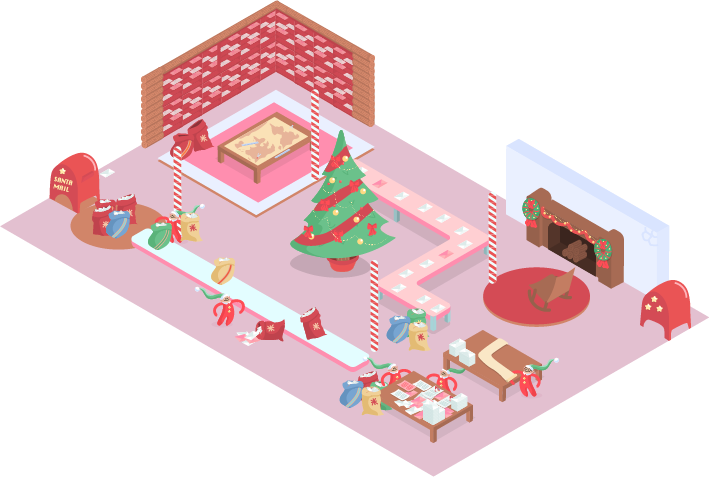
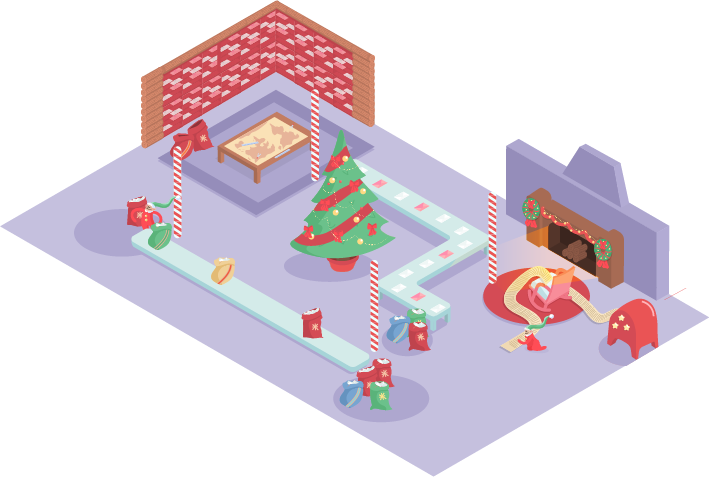
New Letter Room and Adding Sprites

diff --git a/js/mainphaser.js b/js/mainphaser.js
@@ -27,8 +27,10 @@ var badgeScore = localStorage.getItem('badgeScore');
   }
 // Log saved score from local Storage
 console.log('Last Save // Stars('+ localStorage.getItem("starScore") + '), Badges(' + localStorage.getItem("badgeScore") + ')')
-localStorage.clear()
-starScore = 0;
+
+//Clearing score
+//localStorage.clear()
+//starScore = 0;
 
 // BASEMAP Speed and Friction
 var speedMult = 0.7;
@@ -44,28 +46,34 @@ function preload() {
   //game.load.spritesheet('ms', 'assets/sprites/metalslug_mummy37x45.png', 37, 45, 18);
 
   
-  //BACKGROUND IMAGES
+  //***** BACKGROUND IMAGES
   game.load.image('map', 'assets/images/basemap/basemap_empty.png');
   game.load.image('infoBtn', 'assets/images/infoButton.png');
   //game.load.image('map', 'assets/images/baseMap_start.png');
   game.load.image('star', 'assets/images/star.png');
   game.load.image('emptybadge', 'assets/images/emptybadge.png');
   
-  //LOCKS
+  //***** LOCKS
   game.load.image('lockShadow', 'assets/images/locks/lockShadow.png');
   game.load.image('lockedLetter', 'assets/images/locks/locked_100x100.png');
   //game.load.spritesheet('badgeWin', 'assets/sprites/elf_badgeWin200100.png', 200, 100);
   
-  // ROOMS
+  //***** ROOMS
   game.load.image('RoomReception', 'assets/images/rooms/reception/reception.png');
-  game.load.image('RoomLetter', 'assets/images/rooms/letter/letterRoom.png');
+  //LetterRoom
+  game.load.image('RoomLetter', 'assets/images/rooms/letter/letterroom_withanimation.png');
+  game.load.spritesheet('letterAnimMailbox', 'assets/images/rooms/letter/letterroom_mailbox_120120.png', 120, 120);
+  game.load.image('letterPouchGroup', 'assets/images/rooms/letter/pouchgroup.png');
+  game.load.image('letterpouch1', 'assets/images/rooms/letter/pouch1.png');
+  game.load.image('letterpouch2', 'assets/images/rooms/letter/pouch2.png');
+  game.load.image('letterpouch3', 'assets/images/rooms/letter/pouch3.png');
   
-  //ELF SPRITESHEETS
+  //***** ELF SPRITESHEETS
   game.load.spritesheet('ms', 'assets/sprites/elfmotion2048.png', 170.7, 170.7, 100);
   //**Library
   game.load.spritesheet('desk', 'assets/sprites/rooms/library/LIBRARY_desk_200200.png', 200, 200);
   
-  //AUDIO
+  //***** AUDIO
   // game.load.audio('sfx', [ 'assets/audio/SoundEffects/fx_mixdown.mp3', 'assets/audio/SoundEffects/fx_mixdown.ogg' ]);
   game.load.audio('blop', ['assets/audio/blop.mp3', 'assets/audio/blop.wav']);
   game.load.audio('lockwin', 'assets/audio/gamewin.mp3');
@@ -114,17 +122,21 @@ function create() {
     }, this);
   
   
-  //*** Setting Rooms
+  //***** Setting Rooms
+  //*** LETTER ROOM
   //Add Letter room
   RoomLetter = game.add.sprite(350, 73, 'RoomLetter')
-    RoomLetter.alpha = 0;
+    RoomLetter.alpha = 1;
     scrollingMap.addChild(RoomLetter);
   // Clone bounds from letter room sprite
   roomBounds1 = Phaser.Rectangle.clone(RoomLetter);
+  // LETTER ROOM ANIMATIONS
+  //Mailbox Animations
+  letterAnimMailbox = game.add.sprite(378, 210, 'letterAnimMailbox');
+  letterAnimMailbox.animations.add('letterAnimMailbox_anim');
+  letterAnimMailbox.animations.play('letterAnimMailbox_anim', 25, true);
+  scrollingMap.addChild(letterAnimMailbox);
   
-  //var roomBounds1line = game.add.graphics(roomBounds1.x, roomBounds1.y);
-    //roomBounds1line.lineStyle(4, 0xffd900, 1);
-    //roomBounds1line.drawRect(0, 0, roomBounds1.width, roomBounds1.height);
   
   
   RoomReception = game.add.image(210, 232, 'RoomReception')
@@ -199,11 +211,11 @@ function create() {
   
   
   // Elf Spritesheets
-  library_desk_s = game.add.sprite(370, 130, 'desk');
-  library_desk_s.scale.setTo(0.55,0.55);
-  library_desk_s.animations.add('library_desk_anim');
-  library_desk_s.animations.play('library_desk_anim', 25, true);
-  scrollingMap.addChild(library_desk_s);
+  //library_desk_s = game.add.sprite(370, 130, 'desk');
+  //library_desk_s.scale.setTo(0.55,0.55);
+  //library_desk_s.animations.add('library_desk_anim');
+  //library_desk_s.animations.play('library_desk_anim', 25, true);
+  //scrollingMap.addChild(library_desk_s);
   
   //** Adding Info Button
   infoBtn = game.add.sprite(477,443, 'infoBtn');
@@ -308,19 +320,7 @@ function collectStar (star) {
   // Add new score to console
   console.log('+10 ! new Stars (' + starScore + ')')
   
-    
-  // Check for Badges
-  if(starScore % 3 == 0) {
-    badgeScore += 1;   
-    
-    // Play badge win audio
-    //badgewin.play('',0,1);
-    //this.jinglebells.play('',0,1);
-    iconBadgeWin(this);
-    console.log('Holy! You got a new badge! You now have ' + badgeScore + ' badges.')
-  } else {
-    iconCollectStar(this);
-  }
+  iconCollectStar(this);
   
   // Update new score to localStorage
   localStorage.setItem("starScore", JSON.stringify(starScore));
@@ -528,13 +528,4 @@ function displayModal() {
           delay:.1
         })
         .fromTo(modalContent, .4, {y:300}, {y:0}, '-=.3')
-
-    for (var i = 0; i < modalBtn.length; i++) {
-        var thismodalBtn = modalBtn[i];
-        thismodalBtn.addEventListener("click", function () {
-            var modal = document.getElementById(this.dataset.modal);
-            //modal.style.display = "block";
-            modal.addEventListener("click", function () { modal.style.display = "none"; modal.removeEventListener("click"); });
-        }, false);
-    }
 }

diff --git a/js/main.js b/js/main.js
@@ -1,3 +1,5 @@
+
+
 ///******** Menu Button States ********///
 
 
@@ -9,6 +11,9 @@ function toggleSound() {
   else 
     audio.pause();
 }
+
+var blopAudio = new Audio('assets/audio/blop.mp3');
+    
 
 
 ///******** Cards Modals ********///
@@ -28,11 +33,10 @@ modaltl
   })
 
 // Get the button that opens the modal
-var modalBtn = document.getElementsByClassName("modalBtn")[0];
 // Get the <span> element that closes the modal
 var modalSpan = document.getElementById("modalSpan");
 // When the user clicks on the button, open the modal 
-modalBtn.onclick = function displayModal() {
+function displayModal() {
     modal.style.display = "block";
       modaltl
         .fromTo(modal, .5, {
@@ -45,18 +49,10 @@ modalBtn.onclick = function displayModal() {
           ease: Back.easeOut.config(.8)
         })
         .fromTo(modalContent, .4, {y:300}, {y:0}, '-=.3')
-
-    for (var i = 0; i < modalBtn.length; i++) {
-        var thismodalBtn = modalBtn[i];
-        thismodalBtn.addEventListener("click", function () {
-            var modal = document.getElementById(this.dataset.modal);
-            //modal.style.display = "block";
-            modal.addEventListener("click", function () { modal.style.display = "none"; modal.removeEventListener("click"); });
-        }, false);
-    }
 }
 // When the user clicks on <span> (x), close the modal
 modalSpan.onclick = function modalTrigger() {
+  blopAudio.play();
     modaltl
       .fromTo(modalContent, .3, {y:0}, {y:300})
       .fromTo(modal, .5, {
@@ -71,7 +67,7 @@ modalSpan.onclick = function modalTrigger() {
   //modal.style.display = "none";
   
   // Check for Badges
-  if(starScore % 1 == 0) {
+  if(starScore % 3 == 0) {
     badgeScore += 1;   
     
     // Play badge win audio
@@ -142,6 +138,7 @@ libraryBtn.onclick = function() {
 
 // When the user clicks on <span> (x), close the library
 librarySpan.onclick = function() {
+  blopAudio.play();
     librarytl
       .fromTo(libraryContent, .3, {y:0}, {y:300})
       .fromTo(library, .5, {
@@ -169,7 +166,6 @@ window.onclick = function(event) {
 var infoModal = document.getElementById('infoModal');
 var introModalBtn = document.getElementById('introModalBtn');
 //Open Intro Modal
-
 function infoModalOpen() {
   document.getElementById("infoModal").style.display = "block";
   tlinfoModalOpen = new TimelineMax();
@@ -185,9 +181,9 @@ function infoModalOpen() {
     delay:.5
   })
 }
-
 //Close Intro Modal
 introModalBtn.onclick = function() {
+  blopAudio.play();
   var tlintroModalClose = new TimelineMax();
   tlintroModalClose
     .to(infoModal, .75, {
@@ -197,6 +193,8 @@ introModalBtn.onclick = function() {
     });
   //library.style.display = "none";  
 }
+
+
 
 //****** Badge Win Card ******//
 var newBadgeModal = document.getElementById('newBadgeModal');
@@ -216,10 +214,11 @@ function newBadgeModalReveal() {
     ease: Elastic.easeOut.config(1, 0.6),
     delay:.5
   })
+  tlnewBadgeModalOpen.to(newBadgeModal, .8, {y:-7, yoyo:true, repeat:-1, ease:"easeOut"});
 }
-
 //Close Intro Modal
 newBadgeModal.onclick = function() {
+  blopAudio.play();
   var tlnewBadgeModalClose = new TimelineMax();
   tlnewBadgeModalClose
     .to(newBadgeModal, .75, {

diff --git a/index.html b/index.html
@@ -62,28 +62,11 @@
     <div class="small-11 large-5 small-centered columns menuContent">
       
         <!-- First Button Alpha -->
-        <div class="small-3 columns menuDate ">
+        <div class="small-4 columns menuDate ">
             <h4>Dec. <span id="userDate"></span></h4>
         </div>
         <!-- Second Button Alpha -->
-        <div class="small-3 columns menuButton">
-          <button class="modalBtn">
-            <svg class="menuSVGButton" version="1.1"
-               x="0px" y="0px" width="47.7px" height="47.7px" viewBox="0 0 47.7 47.7" style="enable-background:new 0 0 47.7 47.7;"
-               xml:space="preserve">
-            <style type="text/css">
-              .whiteoff{opacity:0.2;fill:#FFFFFF;}
-              .whitepure{fill:#FFFFFF;}
-            </style>
-            <defs>
-            </defs>
-            <circle class="whiteoff" cx="23.9" cy="23.9" r="23.9"/>
-            <path class="whitepure" d="M25,11.5l3.2,6.4c0.2,0.4,0.5,0.6,0.9,0.7l7,1c1,0.1,1.4,1.4,0.7,2.1l-5.1,5c-0.3,0.3-0.4,0.7-0.4,1.1l1.2,7
-              c0.2,1-0.9,1.8-1.8,1.3l-6.3-3.3c-0.4-0.2-0.8-0.2-1.2,0L17,36.1c-0.9,0.5-2-0.3-1.8-1.3l1.2-7c0.1-0.4-0.1-0.8-0.4-1.1l-5.1-5
-              c-0.7-0.7-0.3-2,0.7-2.1l7-1c0.4-0.1,0.8-0.3,0.9-0.7l3.2-6.4C23.2,10.6,24.5,10.6,25,11.5z"/>
-            </svg>
-          </button>
-        </div>
+        
         
         <!-- Elf Icon -->
         <div>
@@ -542,7 +525,7 @@ the last line of the paragraph.</p>
       <div class="small-12 large-7 small-centered columns infoModal-content">
         <h3>HO HO WOW!</h3>
         <p><span>You just earned a new badge from Santa!</span></p>
-        <p><span>Come back tomorrow for more daily facts.</span></p>
+        <p>Come back tomorrow for more daily facts, or click on the elf at the bottom to see how your badge collection!</p>
         
      <svg class="bubbleStroke" version="1.1"
          x="0px" y="0px" width="300px" height="15px" viewBox="0 0 345.7 15" style="enable-background:new 0 0 345.7 15;"

diff --git a/css/main.css b/css/main.css
@@ -107,6 +107,7 @@ body {
   background: rgba(255,77,86, .9);
   padding: 2.5em 1.5em;
   text-align: center;
+  cursor: pointer;
 }
 
 
@@ -125,7 +126,7 @@ body {
 .infoModal-content p span {font-weight: 800;}
 
 .newBadgeModal p,
-.newBadgeModal h3 {margin-bottom: 0em;}
+.newBadgeModal h3 {margin-bottom: .25em;}
 
 .infoModal-content button {
   background: #FF757C;
